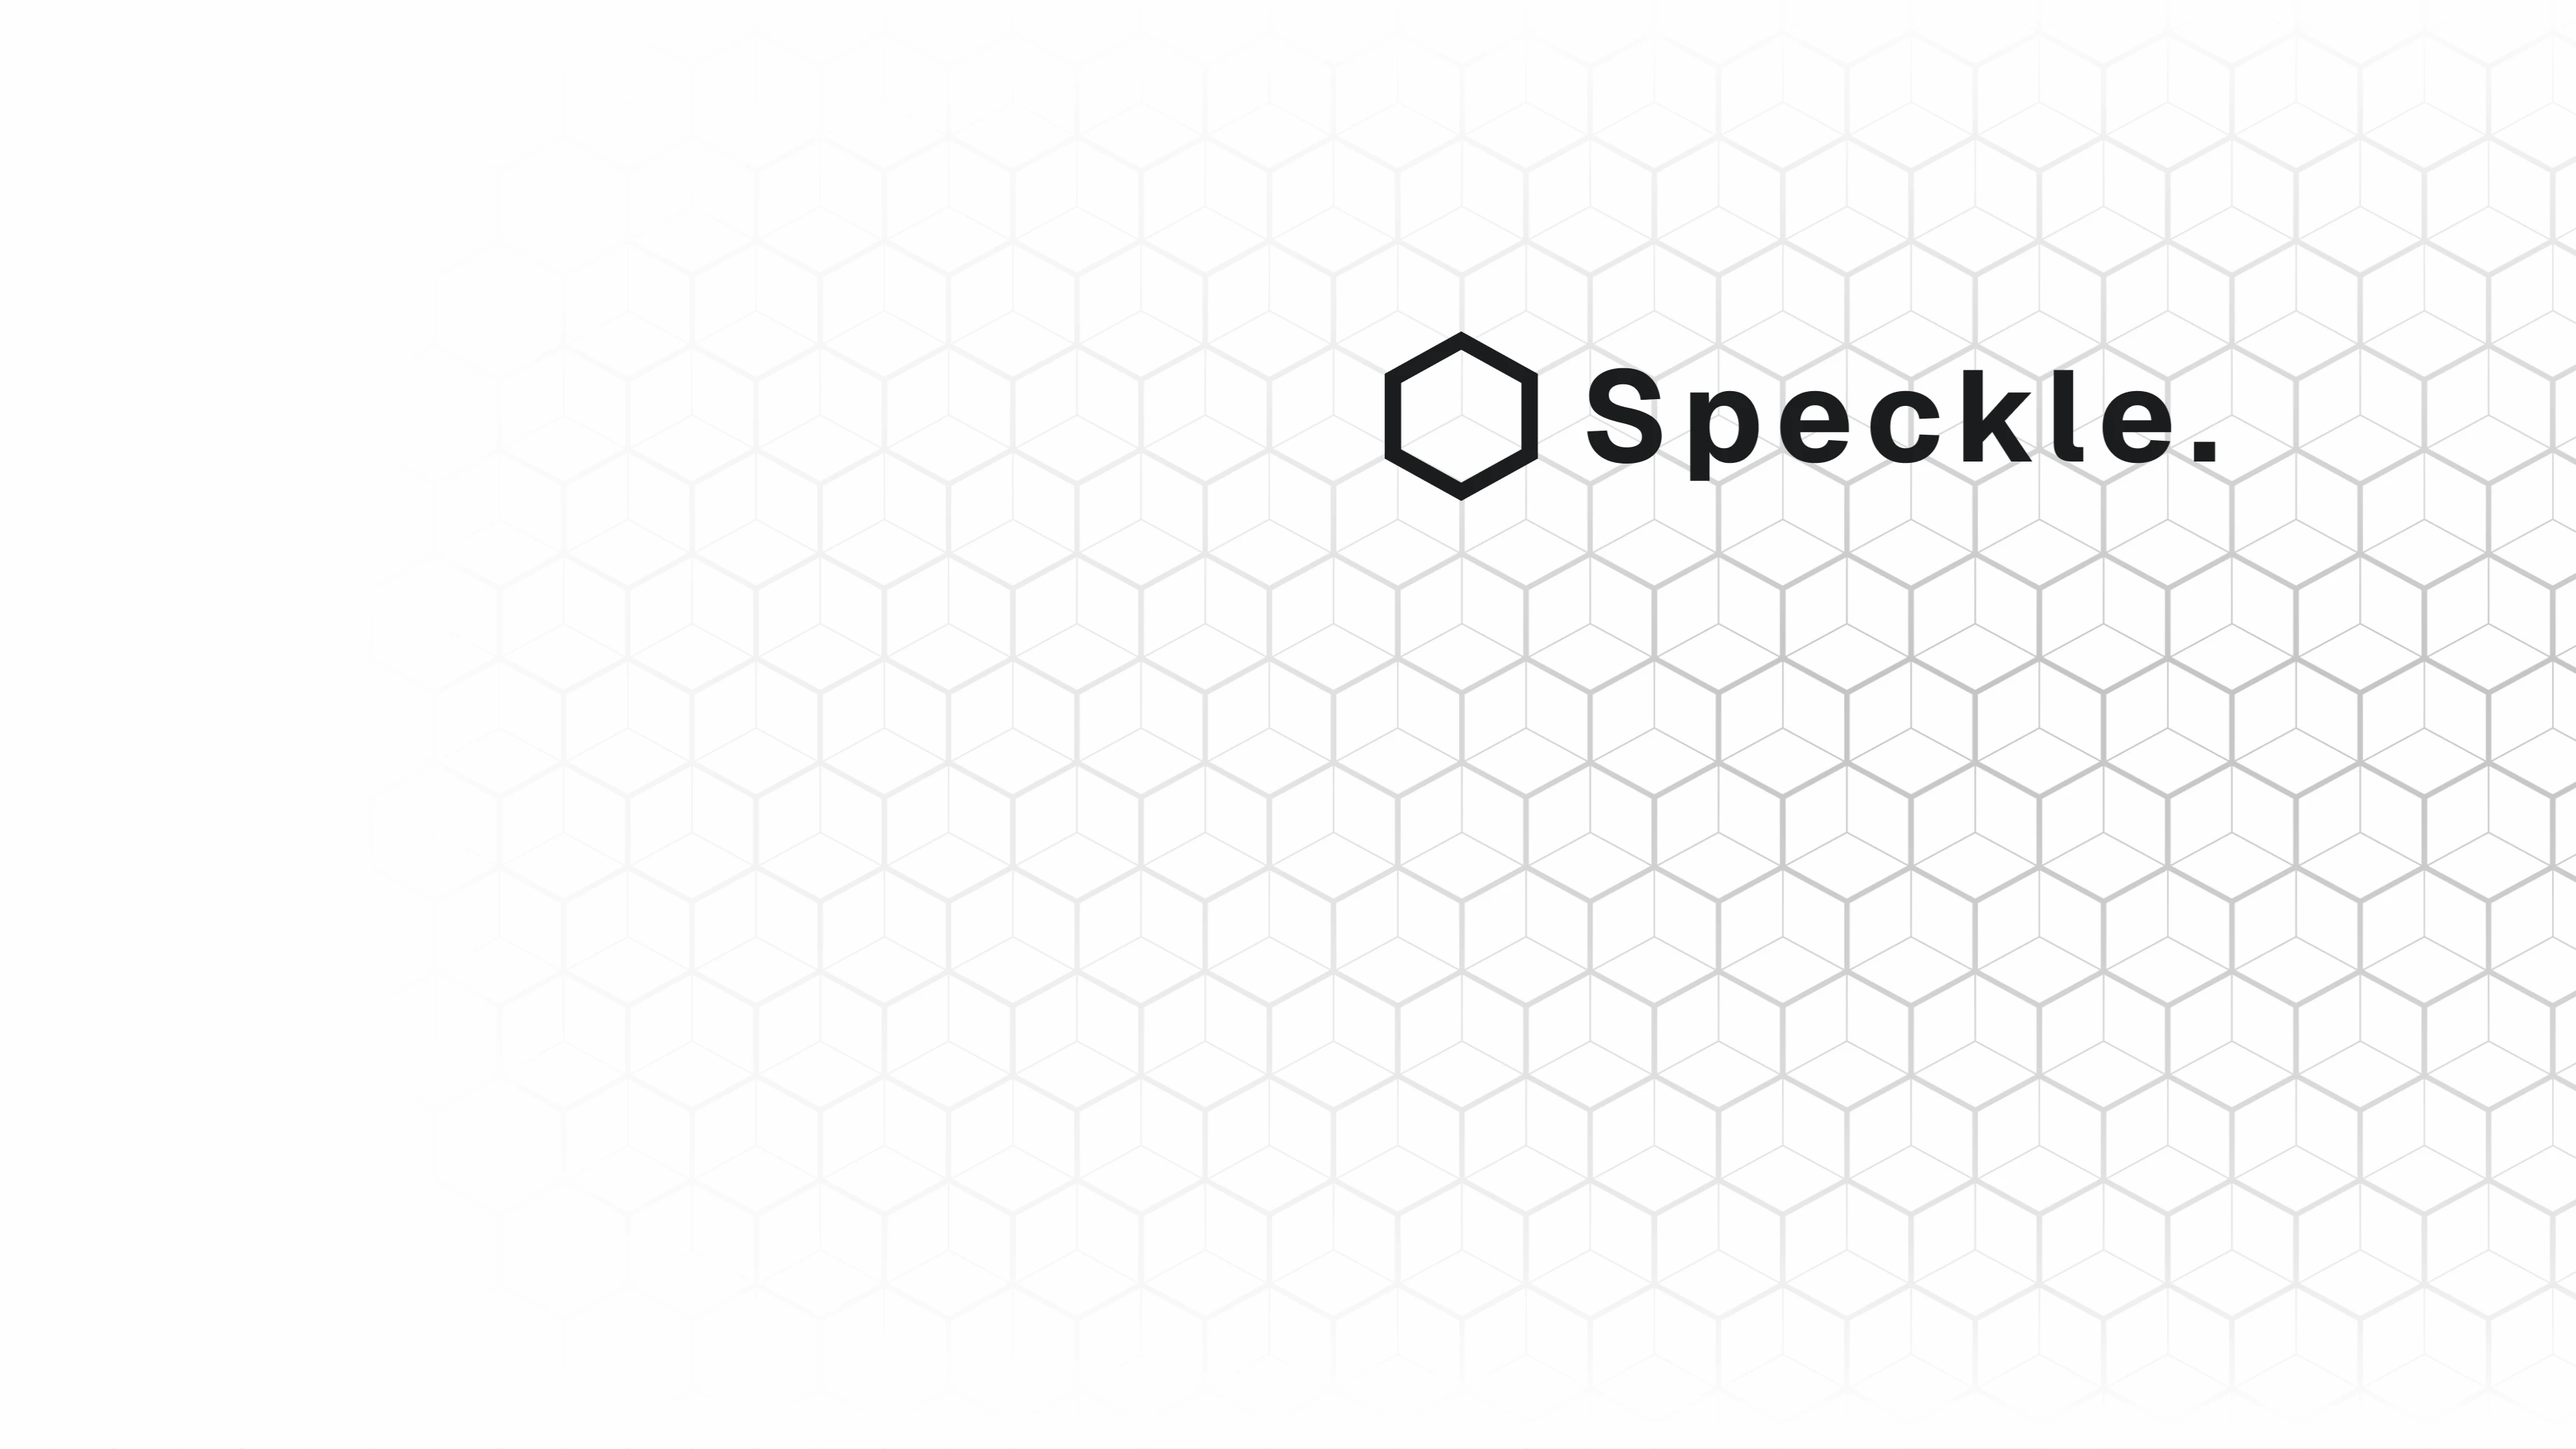
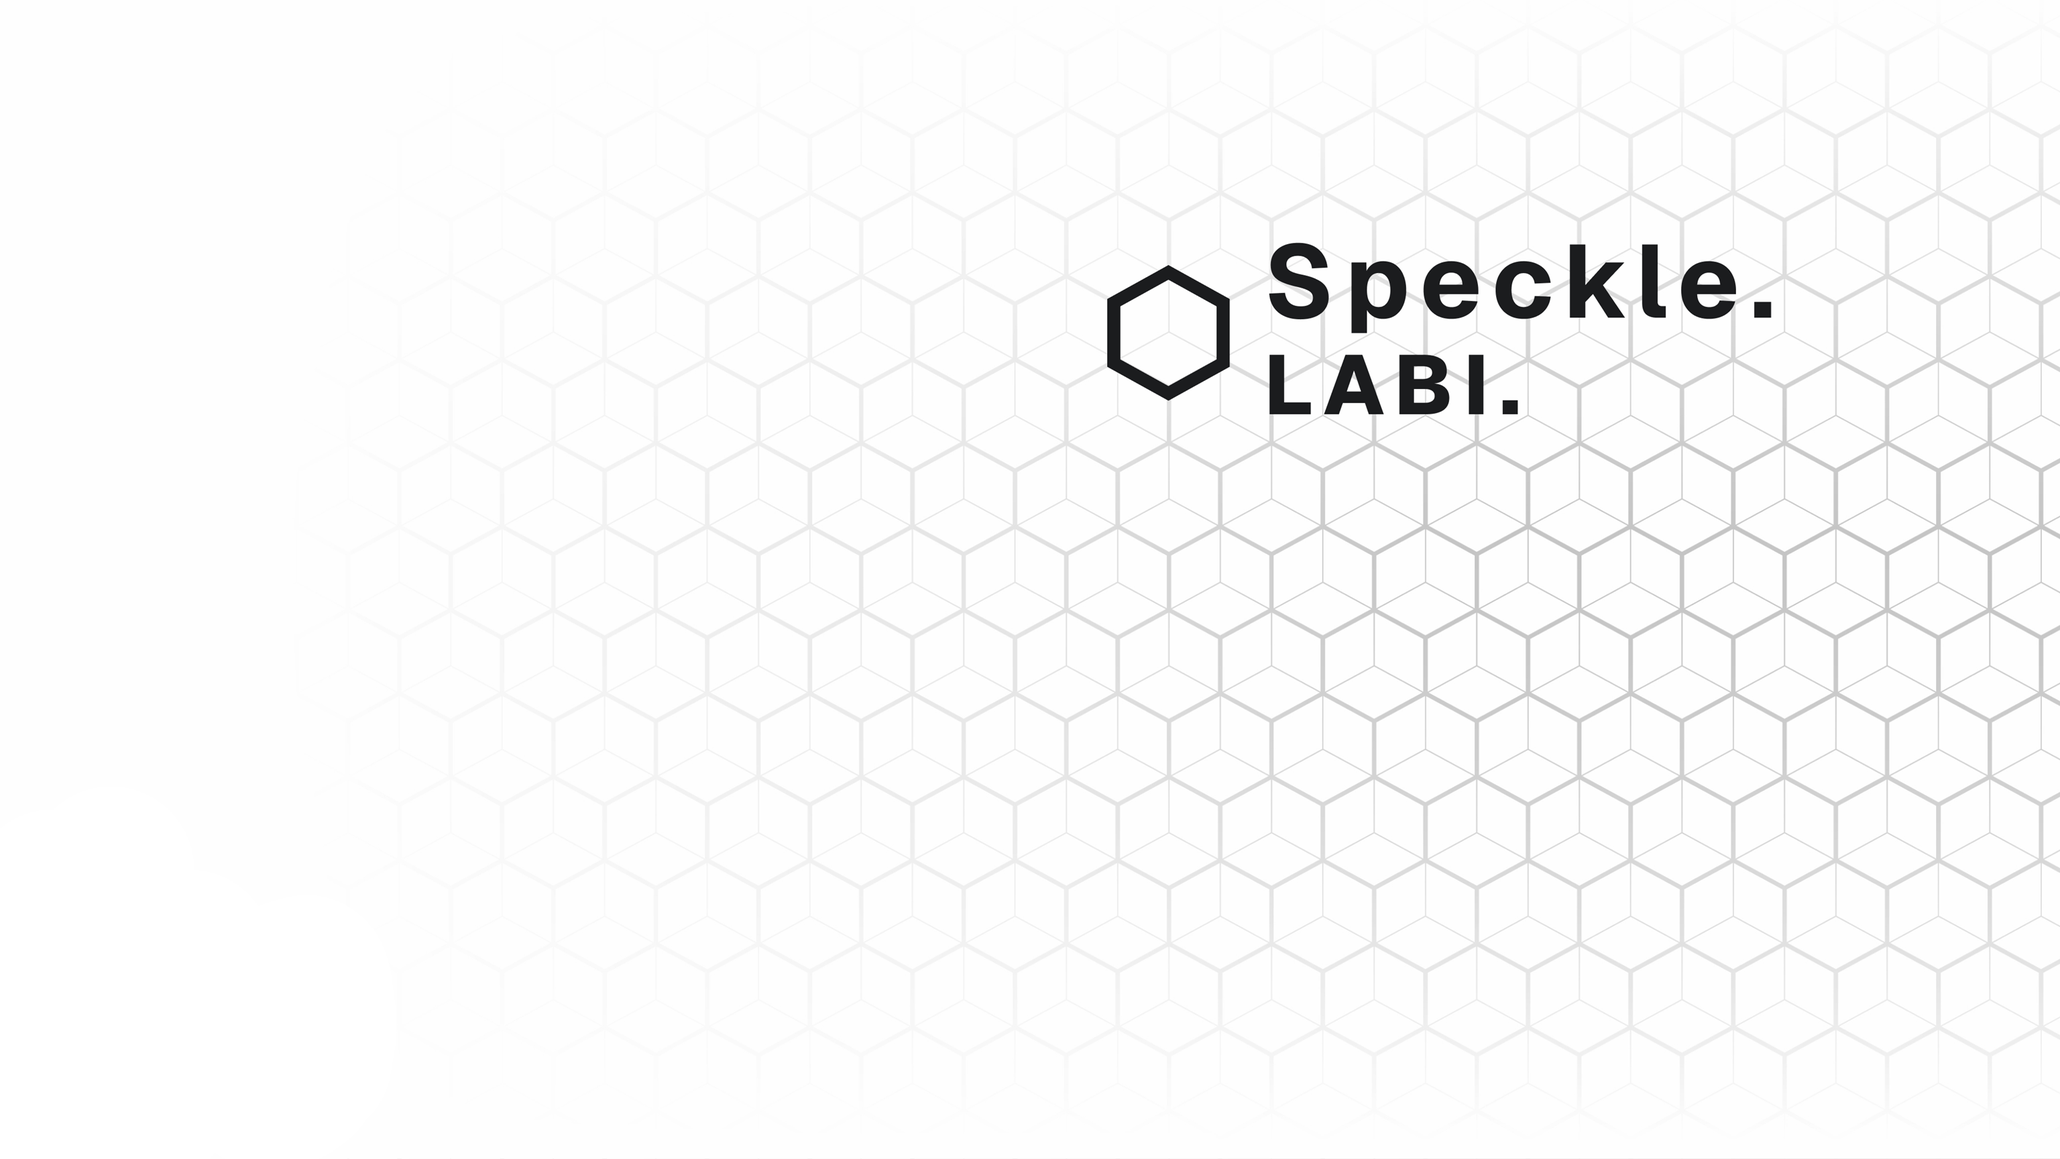
Speckle. LABI.

Changed region(s): [[0.5938, 0.1875, 0.875, 0.375]]

diff --git a/frontend/src/components/Experience/ExperienceUtils/FileDropArea.jsx b/frontend/src/components/Experience/ExperienceUtils/FileDropArea.jsx
@@ -1,7 +1,5 @@
 import { styled } from "styled-components";
 
-import { useDropzone } from "react-dropzone";
-
 //Redux
 import { useDispatch } from "react-redux";
 import { createNotification } from "../../../reducers/notificationReducer";
@@ -85,33 +83,37 @@ const FileDropArea = ({
   videoFrames,
 }) => {
   const dispatch = useDispatch();
-  const { getRootProps, getInputProps } = useDropzone({
-    onDrop: (acceptedFiles) => {
-      if (acceptedFiles.length > 0) {
-        const file = acceptedFiles[0];
 
-        onFileDrop(file);
-      } else {
-        dispatch(
-          createNotification(
-            "No se seleccionó ningún archivo o el formato no es el correcto.",
-            "error"
-          )
-        );
-      }
-    },
-    multiple: false,
-    accept: {
-      "video/avi": [".avi"],
-      "application/json": [".json"],
-    },
-  });
+  // Función para manejar la selección del archivo
+  const handleFileChange = (event) => {
+    const file = event.target.files[0];
+    if (file) {
+      onFileDrop(file);
+    } else {
+      dispatch(
+        createNotification(
+          "No se seleccionó ningún archivo o el formato no es el correcto.",
+          "error"
+        )
+      );
+    }
+  };
 
   return (
-    <StyledFileDropArea {...getRootProps()}>
-      <input {...getInputProps()} aria-label='Cargar video' />
-      <DropzoneContent>
+    <StyledFileDropArea>
+      <input
+        type="file"
+        onChange={handleFileChange}
+        aria-label="Cargar video"
+        accept=".avi, .json"
+        style={{ display: "none" }}
+        id="file-upload"
+      />
+      <label htmlFor="file-upload" className="select-button">
         <UploadFileIcon />
+        Seleccionar archivo
+      </label>
+      <DropzoneContent>
         {fileName ? (
           <>
             <p>{fileName}</p>

diff --git a/frontend/src/components/shared/Header/Header.jsx b/frontend/src/components/shared/Header/Header.jsx
@@ -115,7 +115,7 @@ const Header = ({ userName, userEmail, userImage }) => {
     <StyledHeader>
       <LogoContainer>
         <SpeckleLogo />
-        <LogoTitle>Speckle.</LogoTitle>
+        <LogoTitle>Speckle. LABI.</LogoTitle>
       </LogoContainer>
       <NavigationContainer>
         <NavItem
